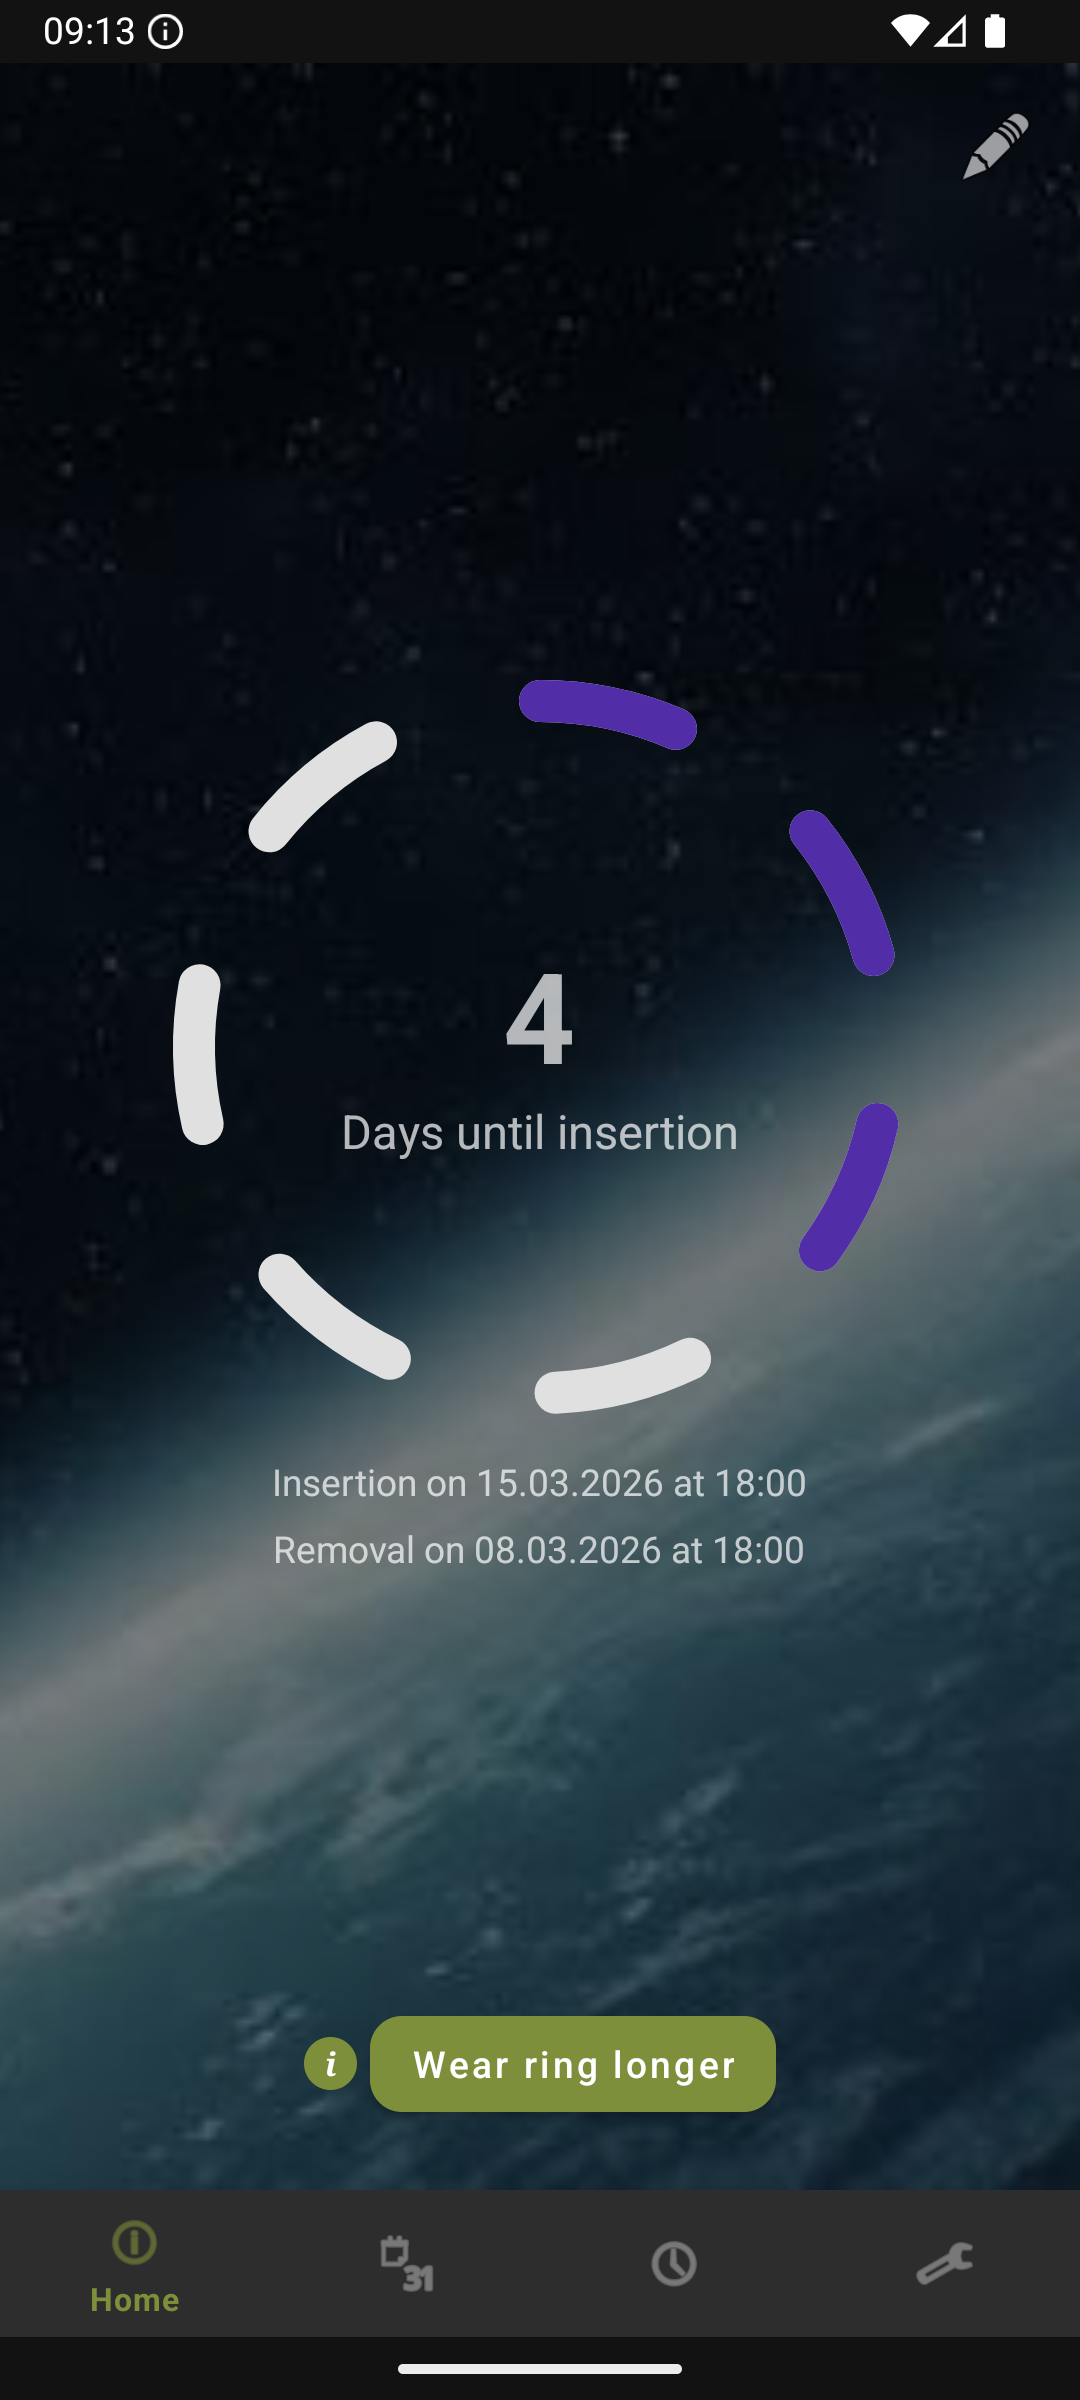
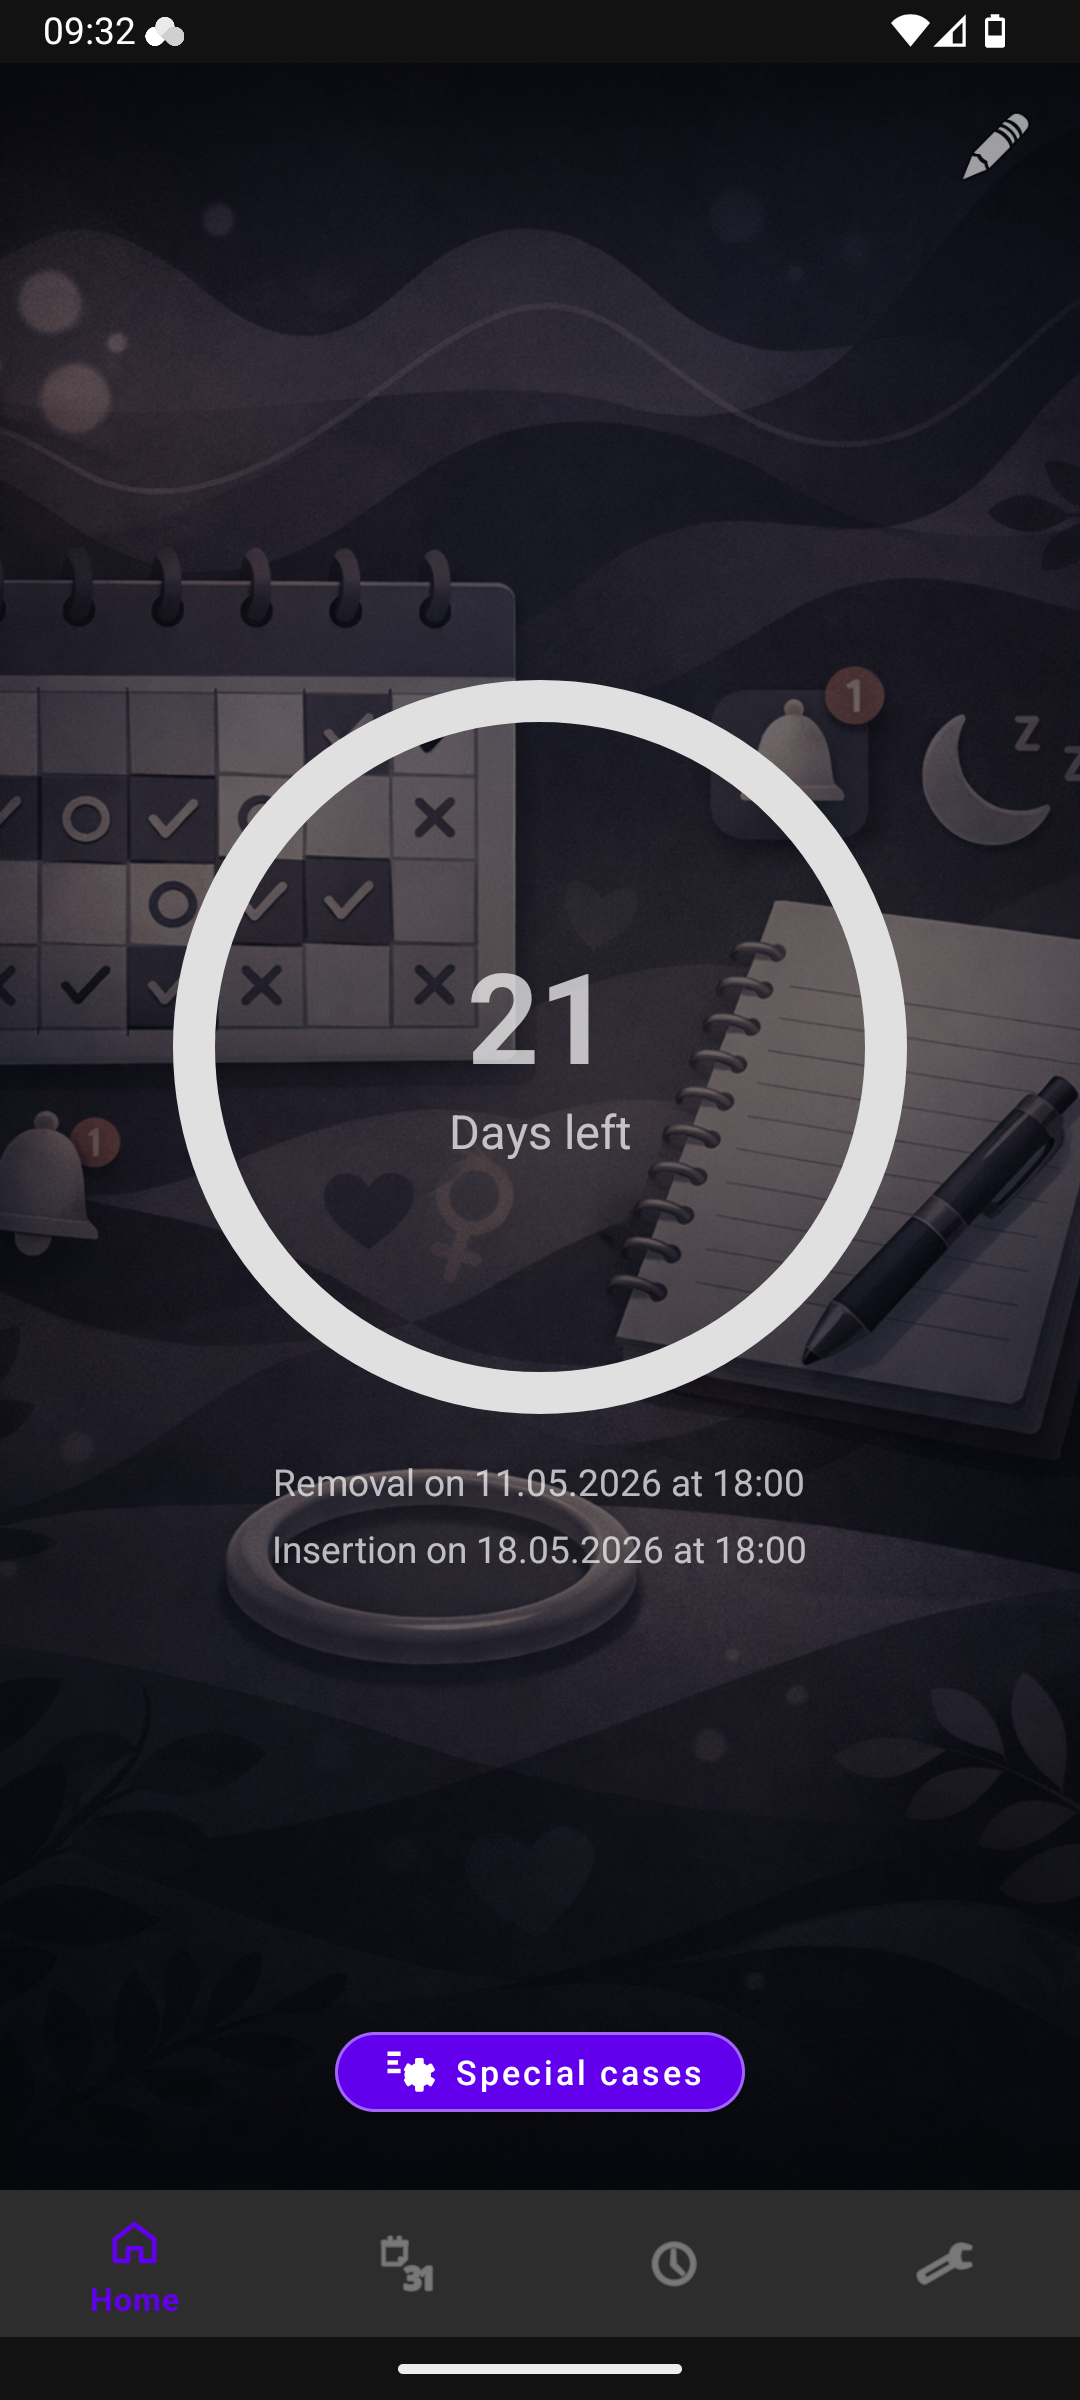
Added Special cases menu, skip ring-free week flow, and cycle-history sync fixes

diff --git a/README.md b/README.md
@@ -8,7 +8,7 @@
 **An Android app for tracking and managing contraceptive ring cycles**  
 📅⏰📝🎨📊
 
-![Projekt-Status](https://img.shields.io/badge/Status-Aktiv-brightgreen) ![License](https://img.shields.io/badge/License-NonCommercial-blue) ![Version](https://img.shields.io/badge/Version-1.3.2.1-orange)
+![Projekt-Status](https://img.shields.io/badge/Status-Aktiv-brightgreen) ![License](https://img.shields.io/badge/License-NonCommercial-blue) ![Version](https://img.shields.io/badge/Version-1.3.3-orange)
 
 [![Telegram Bot](https://img.shields.io/badge/Telegram-Bot-2AABEE?logo=telegram&logoColor=white)](https://t.me/darexsh_bot) [![Buy Me a Coffee](https://img.shields.io/badge/Buy%20Me%20a%20Coffee-yellow?logo=buy-me-a-coffee)](https://buymeacoffee.com/darexsh)  
 <sub>Get release updates on Telegram.<br>If you want to support more apps, you can leave a small donation for a coffee.</sub>
@@ -63,7 +63,11 @@
 
 * 📊 **Cycle History**: Review past and upcoming cycles to track patterns and durations.
 
-* ⏩ **Wear Ring Longer**: Extend the current cycle once and keep history intact, with built‑in info guidance.
+* ⏩ **Wear Ring Longer**: Extend the current cycle by extra days (per cycle), with built‑in info guidance.
+
+* ⏭️ **Skip Ring-Free Week**: Skip the ring-free week for the current cycle (immediate reinsertion), then continue with normal cycle behavior afterward.
+
+* 🧰 **Special Cases Menu (Home)**: Open quick actions for “Wear ring longer” and “Skip ring-free week” from a compact Home menu with auto-hide.
 
 * 🧩 **Home Screen Widgets**: Small widget shows days left; large widget shows days left plus next dates, both color‑synced with app settings and resizable.
 
@@ -184,11 +188,21 @@
 
     * Tap the **info** icon next to “Wear ring longer” for guidance.
 
-9. **Animation Style**:
+9. **Special Cases Menu (Home)**:
+
+    * Tap **Sonderfälle / Special cases** on the Home screen to open quick actions.
+
+    * Use **Wear ring longer** to extend only the current cycle.
+
+    * Use **Skip ring-free week** to set immediate reinsertion for the current cycle.
+
+    * Both actions include dedicated **info** dialogs.
+
+10. **Animation Style**:
 
     * Open **Settings** and choose your preferred global app transition animation.
 
-10. **App Lock**:
+11. **App Lock**:
 
     * Open **Settings → Advanced → App lock**.
 